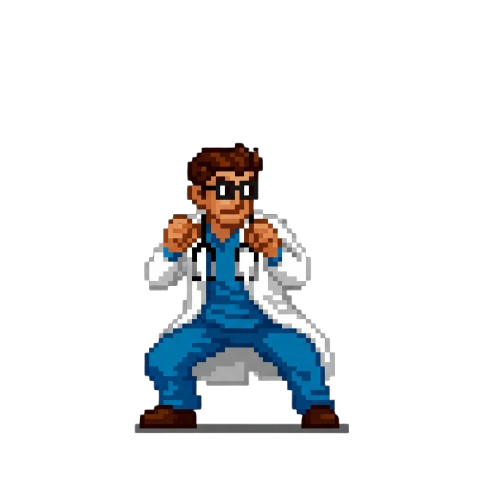
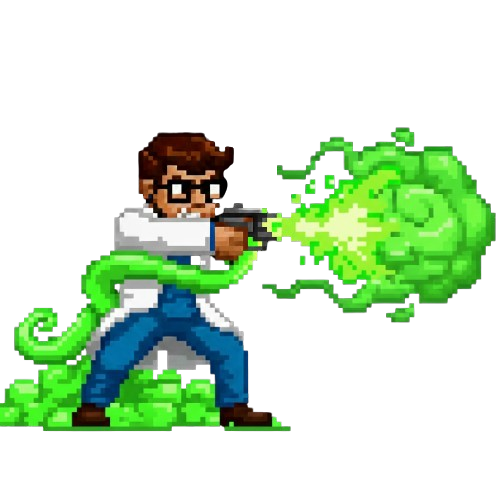
small updates

diff --git a/components/ArenaShowcase.tsx b/components/ArenaShowcase.tsx
@@ -6,24 +6,24 @@ import { MapPin, Sparkles } from "lucide-react";
 const stages = [
   {
     id: 1,
-    name: "SCHUL ARENA",
+    name: "Klassenraum",
     image: "/images/stages/stage-1.png",
     description:
-      "Der klassische Kampfplatz",
+      "Der erste Kampfplatz",
   },
   {
     id: 2,
     name: "OLD CITY",
     image: "/images/stages/stage-2.png",
     description:
-      "Pulsierende Beats in der Cyberpunk-Metropole",
+      "Straßenkampf in einer leeren Stadt",
   },
   {
     id: 3,
     name: "BEACH INFERNO",
     image: "/images/stages/stage3.png",
     description:
-      "Die ultimative Kampfarena und epischer Atmosphäre",
+      "Die ultimative Kampfarena mit epischer Atmosphäre",
   },
   {
     id: 4,
@@ -34,16 +34,16 @@ const stages = [
   },
   {
     id: 5,
-    name: "FURZ TEMPEL",
+    name: "FURZ SAAL",
     image: "/sortiert/stage2.png",
     description:
-      "Ein futuristischer Tempel mit blinkenden Lichtern und furzender Musik",
+      "Ein alter Saal mit alten Gerüchen und mystischen Kräften",
   },
   {
     id: 6,
     name: "MYSTISCHES HAUS",
     image: "/sortiert/stage6.png",
-    description: "Eine geheimnisvolles Haus voller Magie und uralter Kräfte",
+    description: "Eine geheimnisvolles Haus voller Magie und uralter Macht",
   },
 ];
 

diff --git a/components/CharacterShowcase.tsx b/components/CharacterShowcase.tsx
@@ -110,10 +110,10 @@ const fighters = [
     image: "/images/fighters/5-derdr.png",
     actionImage: "/images/fighters/6-dok-duck-removebg-preview.png",
     description: "Unzerbrechlicher Gestank mit wissenschaftlicher Präzision",
-    special: "Eiserne-Därme-Defense",
+    special: "Furzpistole",
     stats: { strength: 80, speed: 45, defense: 100, special: 75 },
     backstory:
-      "Ein Wissenschaftler, der sich selbst zum ultimativen Verteidiger transformiert hat. Sein Gestank ist praktisch undurchdringlich.",
+      "Ein Wissenschaftler, der seine Waffe modifiziert hat. Sein Gestank ist praktisch undurchdringlich.",
   },
   {
     id: 6,
